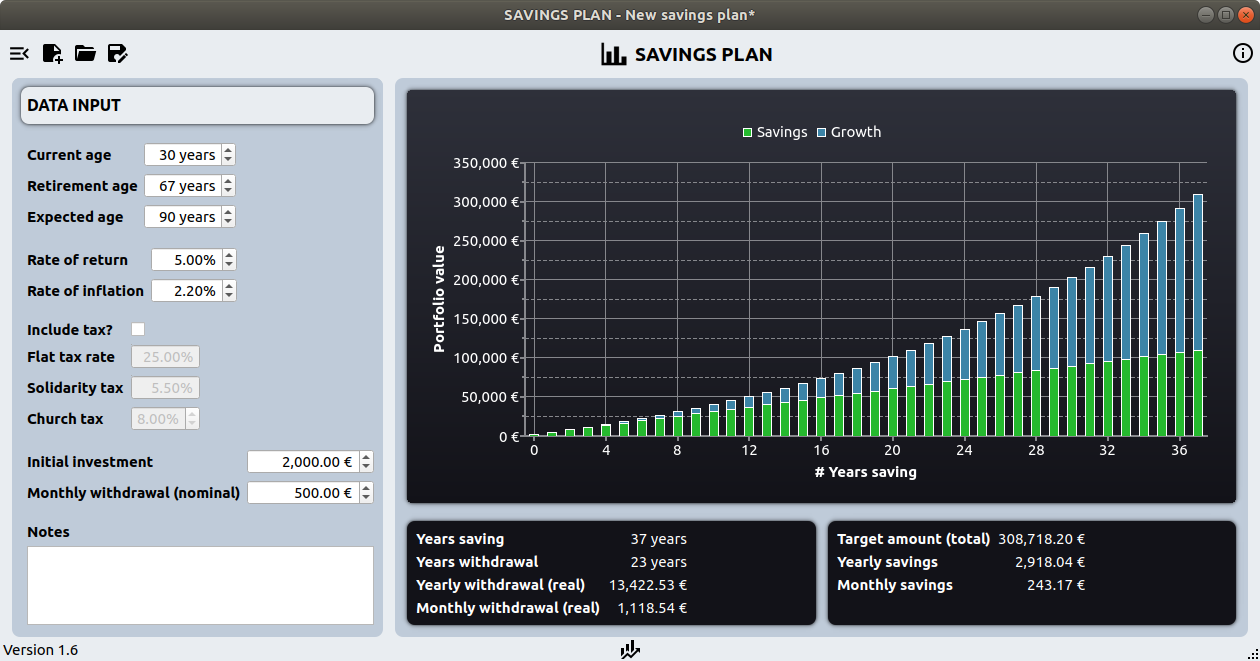
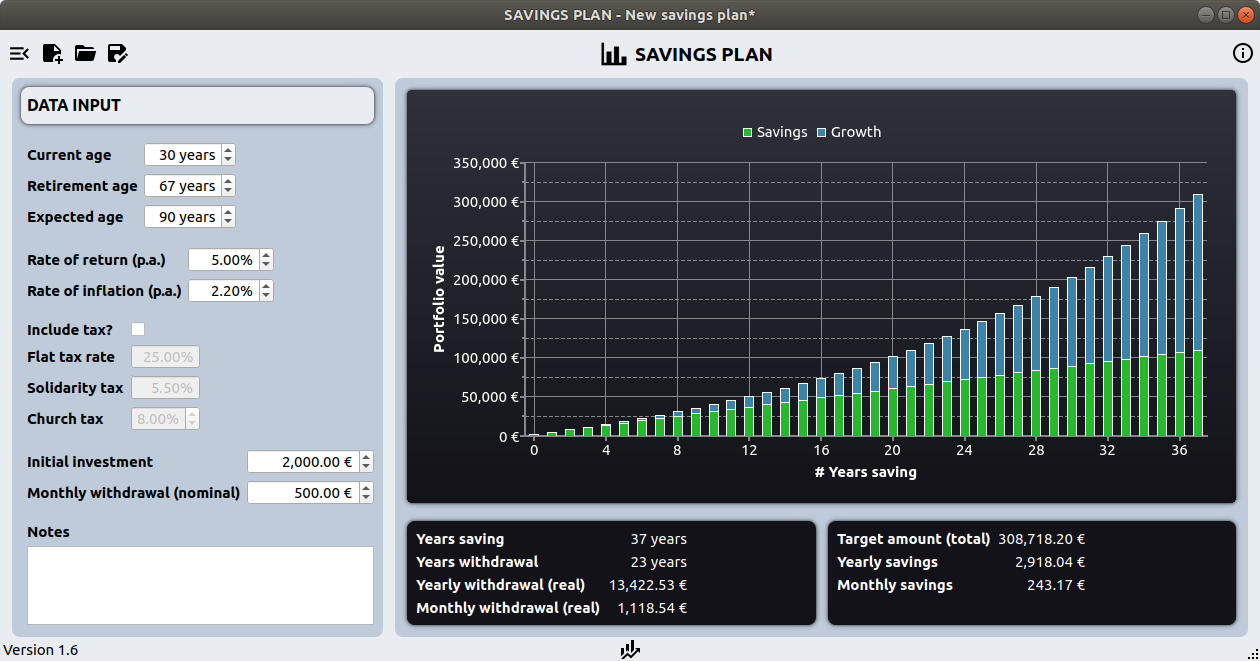
Changed link in info box, added p.a. to expected rates and updated screenshots

Changed region(s): [[0.0929, 0.3631, 0.2167, 0.4539]]

diff --git a/src/savings_plan_ui.py b/src/savings_plan_ui.py
@@ -1783,9 +1783,9 @@ class Ui_MainWindow(object):
         self.label_7.setText(_translate("MainWindow", "Current age"))
         self.retirement_age.setSuffix(_translate("MainWindow", " years"))
         self.expected_age.setSuffix(_translate("MainWindow", " years"))
-        self.label_12.setText(_translate("MainWindow", "Rate of return"))
+        self.label_12.setText(_translate("MainWindow", "Rate of return (p.a.)"))
         self.rate_of_return.setSuffix(_translate("MainWindow", "%"))
-        self.label_13.setText(_translate("MainWindow", "Rate of inflation"))
+        self.label_13.setText(_translate("MainWindow", "Rate of inflation (p.a.)"))
         self.rate_of_inflation.setSuffix(_translate("MainWindow", "%"))
         self.church_tax.setSuffix(_translate("MainWindow", "%"))
         self.label_29.setText(_translate("MainWindow", "Include tax?"))

diff --git a/src/main_gui.py b/src/main_gui.py
@@ -263,7 +263,7 @@ class MainWindow(QtWidgets.QMainWindow):
             self,
             'Savings plan - Information',
             ('For more information please visit my GitHub repository:'
-             '<br><center><a href=https://github.com/dibysn/savings_plan> https://github.com/dibysn/savings_plan </a>'),
+             '<br><center><a href=https://github.com/dibysn/savings_plan/wiki> https://github.com/dibysn/savings_plan/wiki </a>'),
             QtWidgets.QMessageBox.Close
             )
     
